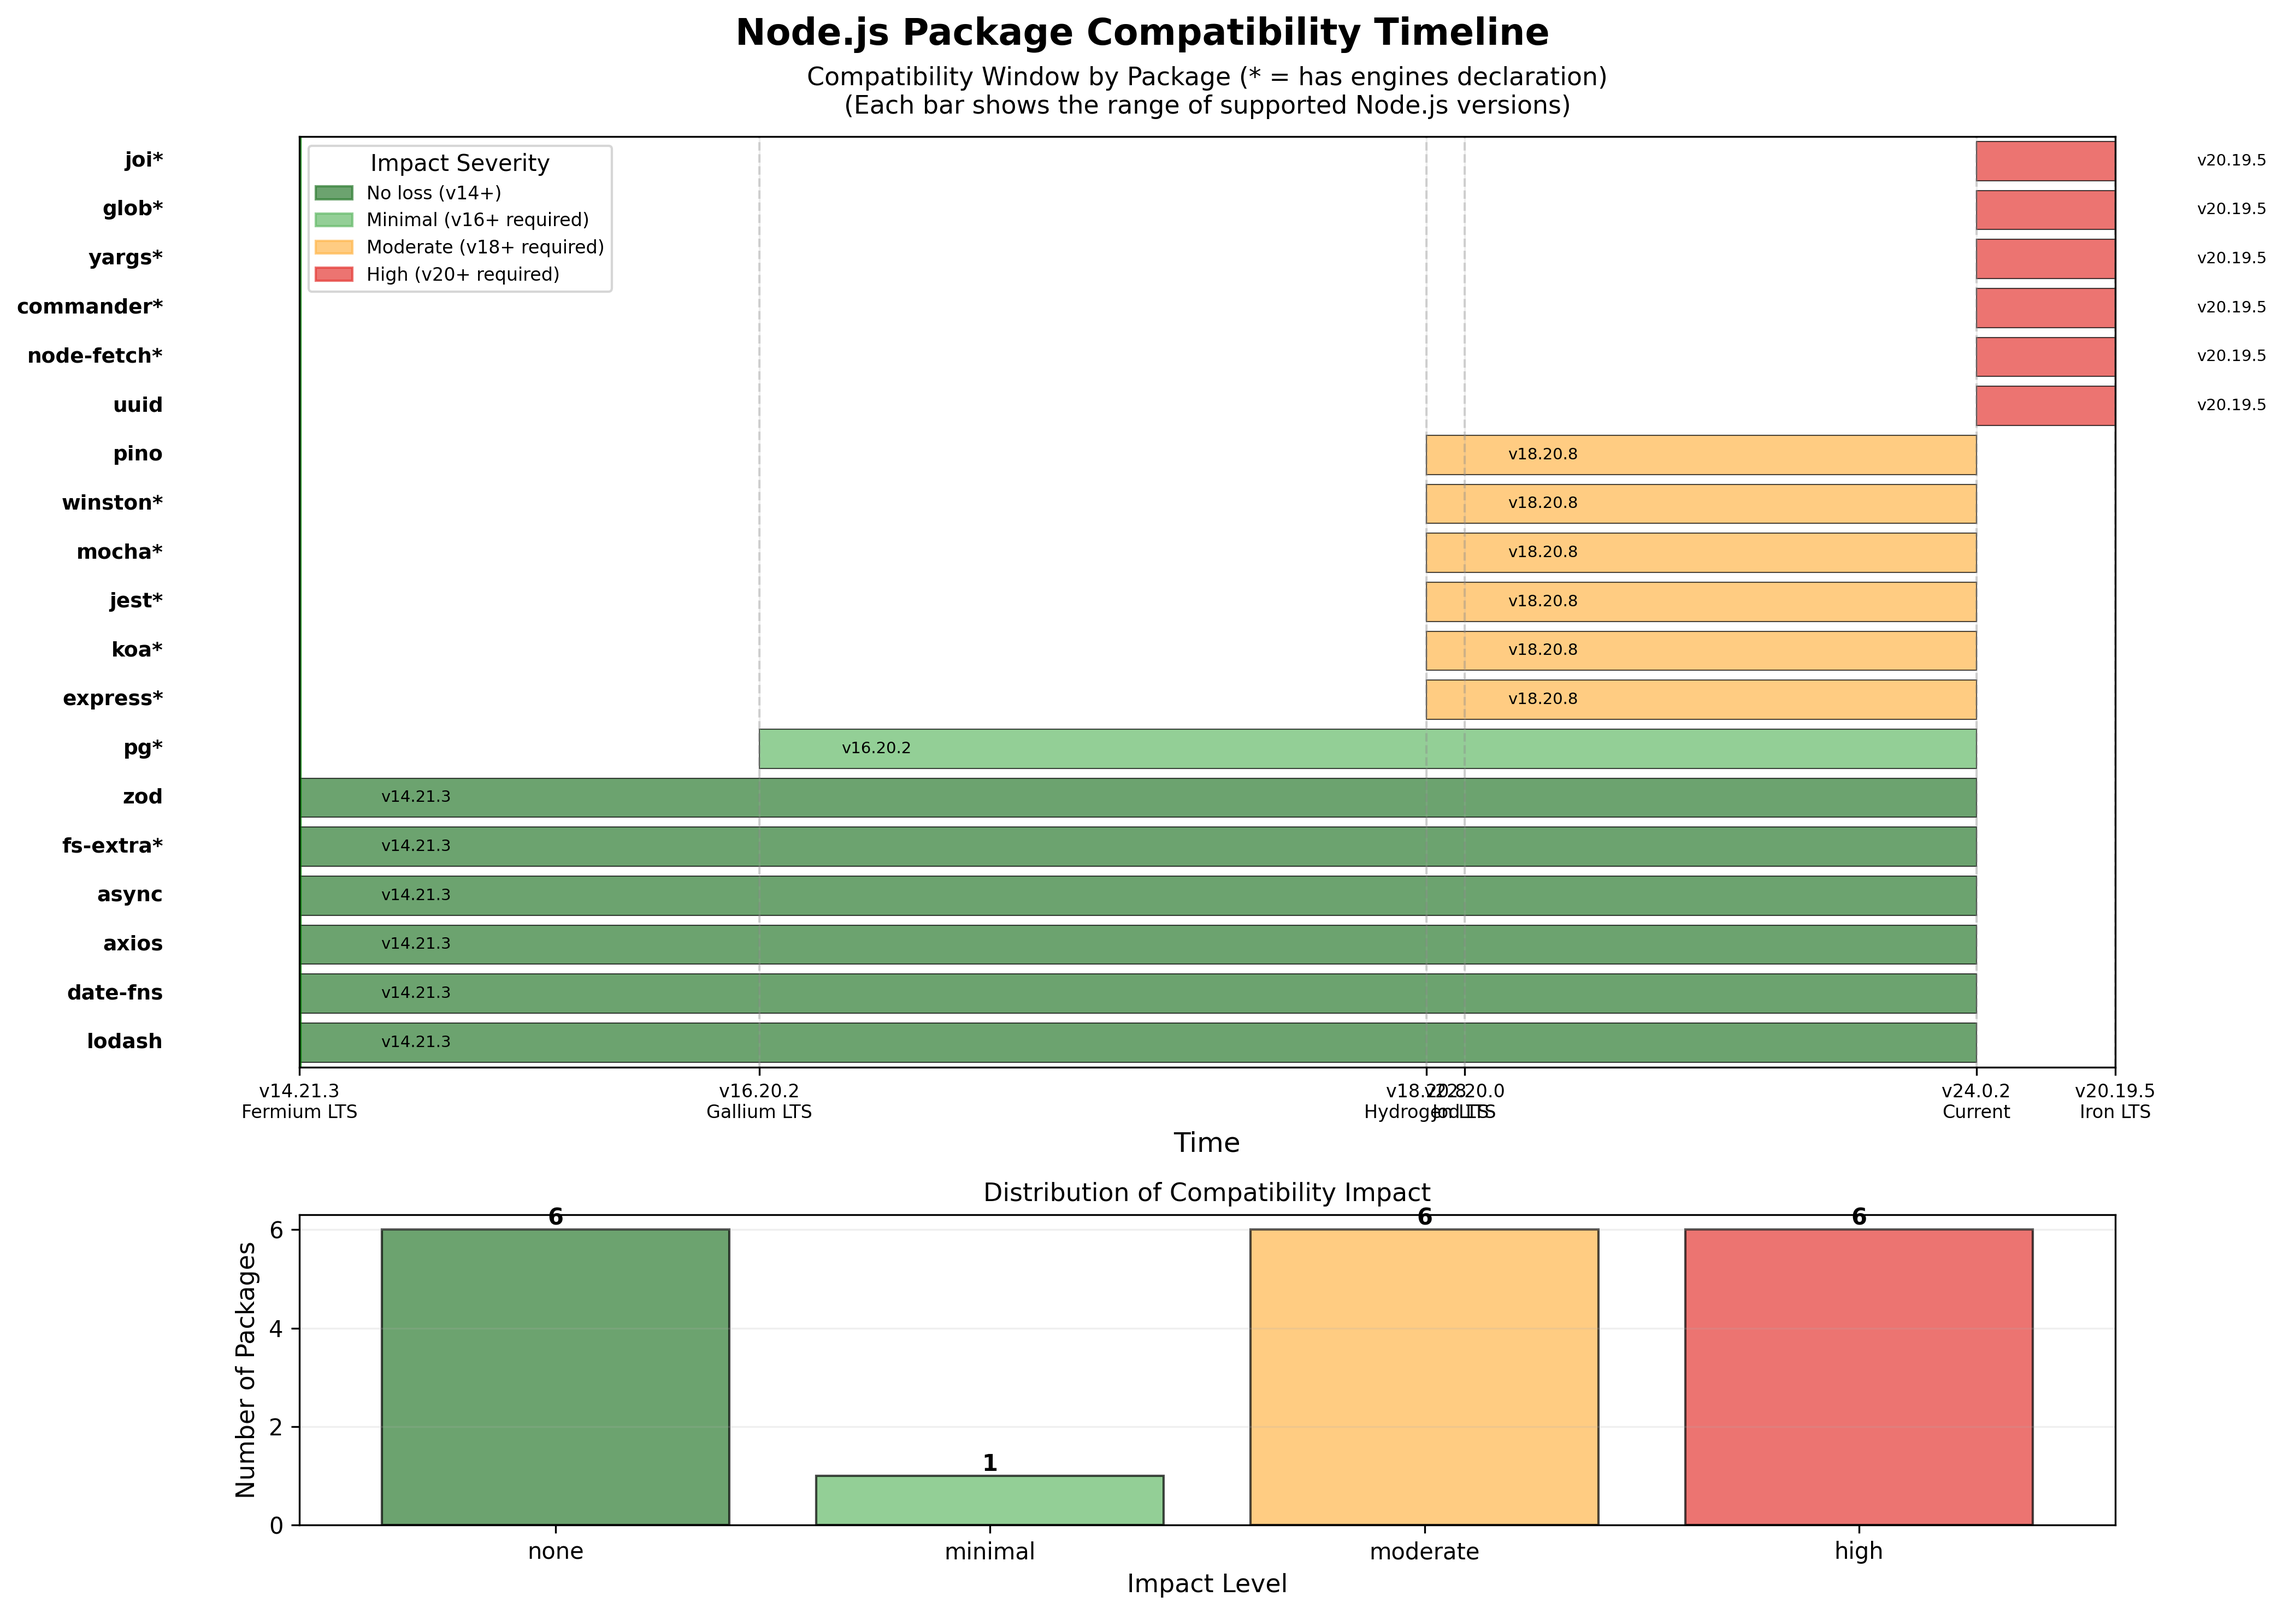
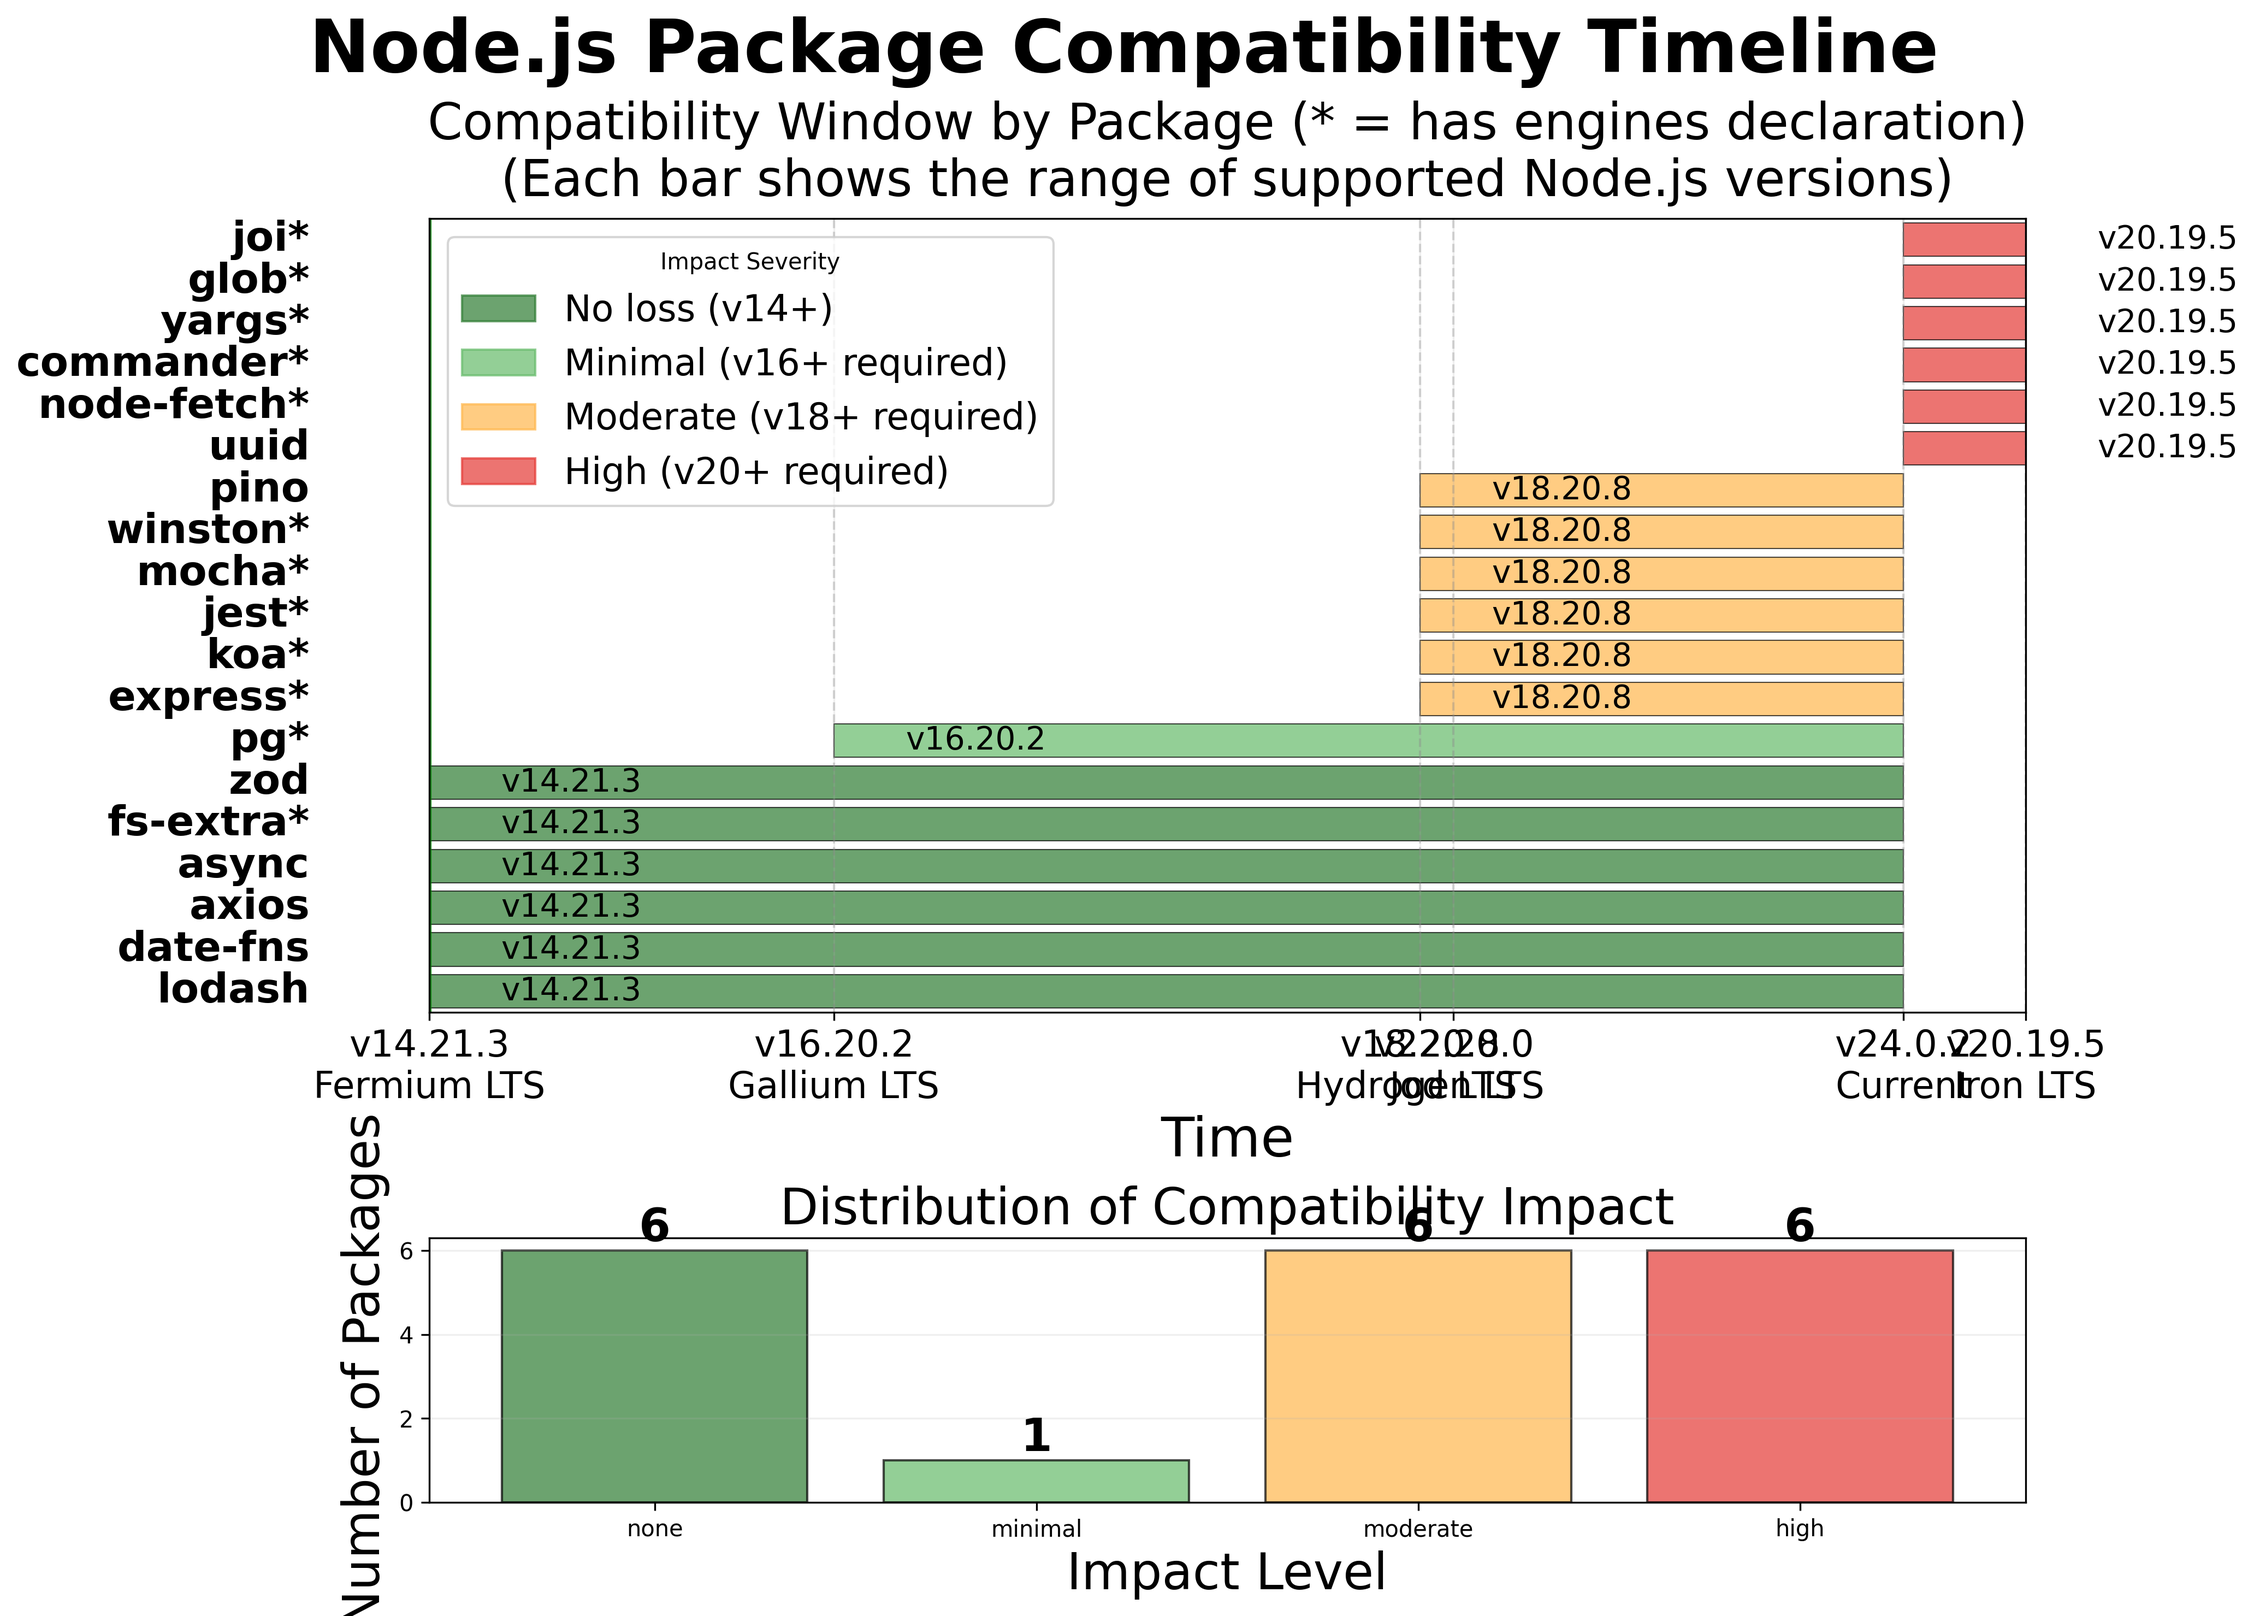
visualize

Changed region(s): [[0.0, 0.0, 0.9925, 1.0], [0.093, 0.7783, 0.1241, 0.8406], [0.093, 0.8717, 0.1241, 0.9029]]

diff --git a/visualize-node.py b/visualize-node.py
@@ -16,6 +16,12 @@ import numpy as np
 import json
 import sys
 
+# Check if we should show the plot window
+show_plot = '--show' in sys.argv
+
+# Font scale factor: 2x for windowed display, 1x for PNG export
+fs = 2.0 if show_plot else 1.0
+
 # Load results
 with open('node/results.json', 'r') as f:
     results = json.load(f)
@@ -81,7 +87,7 @@ color_map = {
 
 # Create figure with two subplots
 fig, (ax1, ax2) = plt.subplots(2, 1, figsize=(14, 10), gridspec_kw={'height_ratios': [3, 1]})
-fig.suptitle('Node.js Package Compatibility Timeline', fontsize=16, fontweight='bold')
+fig.suptitle('Node.js Package Compatibility Timeline', fontsize=int(16*fs), fontweight='bold')
 
 # Plot 1: Timeline bars
 y_pos = 0
@@ -100,11 +106,11 @@ for name, oldest, date_str, versions_lost, impact, has_engines in packages_data:
 
     # Add package name
     marker = '*' if has_engines else ''
-    ax1.text(-50, y_pos, f'{name}{marker}', ha='right', va='center', fontsize=9, fontweight='bold')
+    ax1.text(-50, y_pos, f'{name}{marker}', ha='right', va='center', fontsize=int(9*fs), fontweight='bold')
 
     # Add version on bar
     text_x = bar_start + 30
-    ax1.text(text_x, y_pos, f'{oldest}', ha='left', va='center', fontsize=7, color='black')
+    ax1.text(text_x, y_pos, f'{oldest}', ha='left', va='center', fontsize=int(7*fs), color='black')
 
     y_pos += 1
 
@@ -112,7 +118,7 @@ for name, oldest, date_str, versions_lost, impact, has_engines in packages_data:
 total_days = (latest_date - baseline_date).days
 ax1.set_xlim(0, total_days)
 ax1.set_ylim(-0.5, len(packages_data) - 0.5)
-ax1.set_xlabel('Time', fontsize=12)
+ax1.set_xlabel('Time', fontsize=int(12*fs))
 ax1.set_yticks([])
 
 # Add year/version markers
@@ -124,12 +130,12 @@ for version, (date_str, idx, name) in node_versions.items():
     markers.append((days, f'{version}\n{name}'))
 
 ax1.set_xticks([pos for pos, _ in markers])
-ax1.set_xticklabels([label for _, label in markers], fontsize=8)
+ax1.set_xticklabels([label for _, label in markers], fontsize=int(8*fs))
 
 # Grid
 ax1.grid(axis='x', alpha=0.2)
 ax1.set_title('Compatibility Window by Package (* = has engines declaration)\n(Each bar shows the range of supported Node.js versions)',
-              fontsize=11, pad=10)
+              fontsize=int(11*fs), pad=10)
 
 # Baseline indicator
 ax1.axvline(0, color='green', linestyle='-', linewidth=2, alpha=0.8)
@@ -144,9 +150,9 @@ counts = [impact_counts.get(imp, 0) for imp in impact_order]
 colors = [color_map[imp] for imp in impact_order]
 
 bars = ax2.bar(impact_order, counts, color=colors, alpha=0.7, edgecolor='black')
-ax2.set_ylabel('Number of Packages', fontsize=11)
-ax2.set_xlabel('Impact Level', fontsize=11)
-ax2.set_title('Distribution of Compatibility Impact', fontsize=11)
+ax2.set_ylabel('Number of Packages', fontsize=int(11*fs))
+ax2.set_xlabel('Impact Level', fontsize=int(11*fs))
+ax2.set_title('Distribution of Compatibility Impact', fontsize=int(11*fs))
 ax2.grid(axis='y', alpha=0.2)
 
 # Add count labels
@@ -154,7 +160,7 @@ for bar, count in zip(bars, counts):
     if count > 0:
         height = bar.get_height()
         ax2.text(bar.get_x() + bar.get_width()/2., height,
-                f'{int(count)}', ha='center', va='bottom', fontsize=10, fontweight='bold')
+                f'{int(count)}', ha='center', va='bottom', fontsize=int(10*fs), fontweight='bold')
 
 # Legend
 legend_elements = [
@@ -163,7 +169,7 @@ legend_elements = [
     mpatches.Patch(color=color_map['moderate'], label='Moderate (v18+ required)', alpha=0.7),
     mpatches.Patch(color=color_map['high'], label='High (v20+ required)', alpha=0.7),
 ]
-ax1.legend(handles=legend_elements, loc='upper left', fontsize=8, title='Impact Severity')
+ax1.legend(handles=legend_elements, loc='upper left', fontsize=int(8*fs), title='Impact Severity')
 
 plt.tight_layout()
 plt.savefig('compatibility-timeline-node.png', dpi=300, bbox_inches='tight')
@@ -182,17 +188,17 @@ bars = ax.barh(range(len(package_names)), versions_lost_list, color=colors_sorte
                alpha=0.7, edgecolor='black')
 
 ax.set_yticks(range(len(package_names)))
-ax.set_yticklabels(package_names, fontsize=9)
-ax.set_xlabel('Number of Node.js LTS Versions Lost', fontsize=12)
+ax.set_yticklabels(package_names, fontsize=int(9*fs))
+ax.set_xlabel('Number of Node.js LTS Versions Lost', fontsize=int(12*fs))
 ax.set_title('Toolchain Compatibility Loss by Package\n(Compared to no-dependency baseline of v14.21.3)',
-             fontsize=13, fontweight='bold')
+             fontsize=int(13*fs), fontweight='bold')
 ax.grid(axis='x', alpha=0.2)
 
 # Add labels
 for i, (bar, lost) in enumerate(zip(bars, versions_lost_list)):
     ax.text(bar.get_width() + 0.1, bar.get_y() + bar.get_height()/2,
             f'{int(lost)}',
-            ha='left', va='center', fontsize=8)
+            ha='left', va='center', fontsize=int(8*fs))
 
 # Baseline reference
 ax.axvline(0, color='green', linestyle='-', linewidth=2, alpha=0.5, label='Baseline (no deps)')
@@ -202,5 +208,5 @@ plt.savefig('versions-lost-node.png', dpi=300, bbox_inches='tight')
 print('Visualization saved to versions-lost-node.png')
 
 # Only show plot window if --show argument is passed
-if '--show' in sys.argv:
+if show_plot:
     plt.show()

diff --git a/visualize-rust.py b/visualize-rust.py
@@ -15,6 +15,12 @@ from datetime import datetime
 import numpy as np
 import sys
 
+# Check if we should show the plot window
+show_plot = '--show' in sys.argv
+
+# Font scale factor: 2x for windowed display, 1x for PNG export
+fs = 2.0 if show_plot else 1.0
+
 # Data from experiment results
 crates_data = [
     ("CONTROL", "1.16.0", "2017-03-16", 0, "baseline"),
@@ -62,7 +68,7 @@ color_map = {
 
 # Create figure
 fig, (ax1, ax2) = plt.subplots(2, 1, figsize=(14, 10), gridspec_kw={'height_ratios': [3, 1]})
-fig.suptitle('Rust Crate Toolchain Compatibility Timeline\nEdition 2018', fontsize=16, fontweight='bold')
+fig.suptitle('Rust Crate Toolchain Compatibility Timeline\nEdition 2018', fontsize=int(16*fs), fontweight='bold')
 
 # Plot 1: Timeline bars
 y_pos = 0
@@ -80,12 +86,12 @@ for crate_name, rust_version, date_str, versions_lost, impact in crates_data:
              color=color, alpha=0.7, edgecolor='black', linewidth=0.5)
 
     # Add crate name
-    ax1.text(-50, y_pos, crate_name, ha='right', va='center', fontsize=9, fontweight='bold')
+    ax1.text(-50, y_pos, crate_name, ha='right', va='center', fontsize=int(9*fs), fontweight='bold')
 
     # Add version and date on the bar
     text_x = bar_start + 30
     ax1.text(text_x, y_pos, f'{rust_version}',
-             ha='left', va='center', fontsize=7, color='black')
+             ha='left', va='center', fontsize=int(7*fs), color='black')
 
     y_pos += 1
 
@@ -93,7 +99,7 @@ for crate_name, rust_version, date_str, versions_lost, impact in crates_data:
 total_days = (latest_date - baseline_date).days
 ax1.set_xlim(0, total_days)
 ax1.set_ylim(-0.5, len(crates_data) - 0.5)
-ax1.set_xlabel('Time →', fontsize=12)
+ax1.set_xlabel('Time →', fontsize=int(12*fs))
 ax1.set_yticks([])
 
 # Add year markers
@@ -112,7 +118,7 @@ ax1.set_xticklabels([label for _, label in year_markers])
 # Add grid
 ax1.grid(axis='x', alpha=0.2)
 ax1.set_title('Compatibility Window by Crate\n(Each bar shows the range of supported Rust versions)',
-              fontsize=11, pad=10)
+              fontsize=int(11*fs), pad=10)
 
 # Add baseline indicator
 baseline_line = ax1.axvline(0, color='green', linestyle='-', linewidth=2, alpha=0.8)
@@ -128,9 +134,9 @@ counts = [impact_counts.get(imp, 0) for imp in impact_order]
 colors = [color_map[imp] for imp in impact_order]
 
 bars = ax2.bar(impact_order, counts, color=colors, alpha=0.7, edgecolor='black')
-ax2.set_ylabel('Number of Crates', fontsize=11)
-ax2.set_xlabel('Impact Level', fontsize=11)
-ax2.set_title('Distribution of Compatibility Impact', fontsize=11)
+ax2.set_ylabel('Number of Crates', fontsize=int(11*fs))
+ax2.set_xlabel('Impact Level', fontsize=int(11*fs))
+ax2.set_title('Distribution of Compatibility Impact', fontsize=int(11*fs))
 ax2.grid(axis='y', alpha=0.2)
 
 # Add count labels on bars
@@ -138,7 +144,7 @@ for bar, count in zip(bars, counts):
     if count > 0:
         height = bar.get_height()
         ax2.text(bar.get_x() + bar.get_width()/2., height,
-                f'{int(count)}', ha='center', va='bottom', fontsize=10, fontweight='bold')
+                f'{int(count)}', ha='center', va='bottom', fontsize=int(10*fs), fontweight='bold')
 
 # Create legend for impact levels
 legend_elements = [
@@ -150,7 +156,7 @@ legend_elements = [
     mpatches.Patch(color=color_map["severe"], label='Severe (47-66% loss)', alpha=0.7),
     mpatches.Patch(color=color_map["extreme"], label='Extreme (74-89% loss)', alpha=0.7),
 ]
-ax1.legend(handles=legend_elements, loc='upper left', fontsize=8, title='Impact Severity')
+ax1.legend(handles=legend_elements, loc='upper left', fontsize=int(8*fs), title='Impact Severity')
 
 plt.tight_layout()
 plt.savefig('compatibility-timeline-rust.png', dpi=300, bbox_inches='tight')
@@ -171,10 +177,10 @@ bars = ax.barh(range(len(crate_names)), versions_lost, color=colors_sorted,
                alpha=0.7, edgecolor='black')
 
 ax.set_yticks(range(len(crate_names)))
-ax.set_yticklabels(crate_names, fontsize=9)
-ax.set_xlabel('Number of Rust Versions Lost', fontsize=12)
+ax.set_yticklabels(crate_names, fontsize=int(9*fs))
+ax.set_xlabel('Number of Rust Versions Lost', fontsize=int(12*fs))
 ax.set_title('Toolchain Compatibility Loss by Crate\n(Compared to no-dependency baseline of 74 versions)',
-             fontsize=13, fontweight='bold')
+             fontsize=int(13*fs), fontweight='bold')
 ax.grid(axis='x', alpha=0.2)
 
 # Add percentage labels
@@ -182,7 +188,7 @@ for i, (bar, lost) in enumerate(zip(bars, versions_lost)):
     percentage = (lost / 74) * 100
     ax.text(bar.get_width() + 1, bar.get_y() + bar.get_height()/2,
             f'{int(lost)} ({percentage:.0f}%)',
-            ha='left', va='center', fontsize=8)
+            ha='left', va='center', fontsize=int(8*fs))
 
 # Add baseline reference line
 ax.axvline(0, color='green', linestyle='-', linewidth=2, alpha=0.5, label='Baseline (no deps)')
@@ -192,5 +198,5 @@ plt.savefig('versions-lost-rust.png', dpi=300, bbox_inches='tight')
 print("Visualization saved to versions-lost-rust.png")
 
 # Only show plot window if --show argument is passed
-if '--show' in sys.argv:
+if show_plot:
     plt.show()
